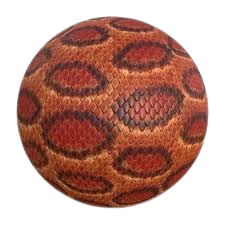
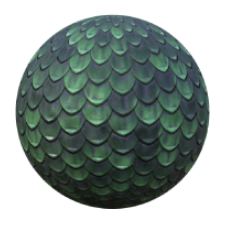
Fix Abstract DAO + Item Dragon Skin Image

diff --git a/Web/src/main/java/model/dao/factory/DAOFactory.java b/Web/src/main/java/model/dao/factory/DAOFactory.java
@@ -1,88 +1,19 @@
 package model.dao.factory;
 
-import java.io.IOException;
-import java.io.InputStream;
-import java.sql.Connection;
-import java.sql.DriverManager;
-import java.sql.SQLException;
-import java.util.Properties;
+import javax.servlet.ServletContext;
 
 import model.dao.interfaces.ItemDAO;
 import model.dao.interfaces.JoueurDao;
-import model.dao.exceptions.DAOConfigurationException;
-import model.dao.implementations.ItemDaoImpl;
-import model.dao.implementations.JoueurDaoImpl;
 
-public class DAOFactory {
-
-    private static final String FICHIER_PROPERTIES       = "dao.properties";
-    private static final String PROPERTY_URL             = "url";
-    private static final String PROPERTY_DRIVER          = "driver";
-    private static final String PROPERTY_NOM_UTILISATEUR = "nomutilisateur";
-    private static final String PROPERTY_MOT_DE_PASSE    = "motdepasse";
-
-    public String              url;
-    public String              username;
-    public String              password;
-
-    DAOFactory( String url, String username, String password ) {
-        this.url = url;
-        this.username = username;
-        this.password = password;
-    }
-
-    /*
-     * Méthode chargée de récupérer les informations de connexion à la base de
-     * données, charger le driver JDBC et retourner une instance de la Factory
-     */
-    public static DAOFactory getInstance() throws DAOConfigurationException {
-        Properties properties = new Properties();
-        String url;
-        String driver;
-        String nomUtilisateur;
-        String motDePasse;
-
-        ClassLoader classLoader = Thread.currentThread().getContextClassLoader();
-        InputStream fichierProperties = classLoader.getResourceAsStream( FICHIER_PROPERTIES );
-
-        if ( fichierProperties == null ) {
-            throw new DAOConfigurationException( "Le fichier properties " + FICHIER_PROPERTIES + " est introuvable." );
-        }
-
-        try {
-            properties.load( fichierProperties );
-            url = properties.getProperty( PROPERTY_URL );
-            driver = properties.getProperty( PROPERTY_DRIVER );
-            nomUtilisateur = properties.getProperty( PROPERTY_NOM_UTILISATEUR );
-            motDePasse = properties.getProperty( PROPERTY_MOT_DE_PASSE );
-        } catch ( IOException e ) {
-            throw new DAOConfigurationException( "Impossible de charger le fichier properties " + FICHIER_PROPERTIES, e );
-        }
-
-        try {
-            Class.forName( driver );
-        } catch ( ClassNotFoundException e ) {
-            throw new DAOConfigurationException( "Le driver est introuvable dans le classpath.", e );
-        }
-
-        DAOFactory instance = new DAOFactory( url, nomUtilisateur, motDePasse );
-        return instance;
-    }
-
-    /* Méthode chargée de fournir une connexion à la base de données */
-    public Connection getConnection() throws SQLException {
-        return DriverManager.getConnection( url, username, password );
-    }
-
-    /*
-     * Méthodes de récupération de l'implémentation des différents DAO (un seul
-     * pour le moment)
-     */
-    public JoueurDao getJoueurDao() {
-        return new JoueurDaoImpl( this );
-    }
+public interface DAOFactory {
+	
+	public final String ATT_DAO_FACTORY = "daofactory";
+	
+	public JoueurDao getJoueurDao();
     
-    public ItemDAO getItemDAO() {
-        return new ItemDaoImpl( this );
-    }
+    public ItemDAO getItemDAO();
+	
+    public static DAOFactory getInstanceFromContext( ServletContext servletContext ) {
+    	return (DAOFactory) servletContext.getAttribute(ATT_DAO_FACTORY);
+	}
 }

diff --git a/Web/src/main/java/model/dao/factory/DAOFactoryImpl.java b/Web/src/main/java/model/dao/factory/DAOFactoryImpl.java
@@ -1,0 +1,88 @@
+package model.dao.factory;
+
+import java.io.IOException;
+import java.io.InputStream;
+import java.sql.Connection;
+import java.sql.DriverManager;
+import java.sql.SQLException;
+import java.util.Properties;
+
+import model.dao.interfaces.ItemDAO;
+import model.dao.interfaces.JoueurDao;
+import model.dao.exceptions.DAOConfigurationException;
+import model.dao.implementations.ItemDaoImpl;
+import model.dao.implementations.JoueurDaoImpl;
+
+public class DAOFactoryImpl implements DAOFactory{
+
+    private static final String FICHIER_PROPERTIES       = "dao.properties";
+    private static final String PROPERTY_URL             = "url";
+    private static final String PROPERTY_DRIVER          = "driver";
+    private static final String PROPERTY_NOM_UTILISATEUR = "nomutilisateur";
+    private static final String PROPERTY_MOT_DE_PASSE    = "motdepasse";
+
+    public String              url;
+    public String              username;
+    public String              password;
+
+    DAOFactoryImpl( String url, String username, String password ) {
+        this.url = url;
+        this.username = username;
+        this.password = password;
+    }
+
+    /*
+     * Méthode chargée de récupérer les informations de connexion à la base de
+     * données, charger le driver JDBC et retourner une instance de la Factory
+     */
+    public static DAOFactory getInstance() throws DAOConfigurationException {
+        Properties properties = new Properties();
+        String url;
+        String driver;
+        String nomUtilisateur;
+        String motDePasse;
+
+        ClassLoader classLoader = Thread.currentThread().getContextClassLoader();
+        InputStream fichierProperties = classLoader.getResourceAsStream( FICHIER_PROPERTIES );
+
+        if ( fichierProperties == null ) {
+            throw new DAOConfigurationException( "Le fichier properties " + FICHIER_PROPERTIES + " est introuvable." );
+        }
+
+        try {
+            properties.load( fichierProperties );
+            url = properties.getProperty( PROPERTY_URL );
+            driver = properties.getProperty( PROPERTY_DRIVER );
+            nomUtilisateur = properties.getProperty( PROPERTY_NOM_UTILISATEUR );
+            motDePasse = properties.getProperty( PROPERTY_MOT_DE_PASSE );
+        } catch ( IOException e ) {
+            throw new DAOConfigurationException( "Impossible de charger le fichier properties " + FICHIER_PROPERTIES, e );
+        }
+
+        try {
+            Class.forName( driver );
+        } catch ( ClassNotFoundException e ) {
+            throw new DAOConfigurationException( "Le driver est introuvable dans le classpath.", e );
+        }
+
+        DAOFactoryImpl instance = new DAOFactoryImpl( url, nomUtilisateur, motDePasse );
+        return instance;
+    }
+
+    /* Méthode chargée de fournir une connexion à la base de données */
+    public Connection getConnection() throws SQLException {
+        return DriverManager.getConnection( url, username, password );
+    }
+
+    /*
+     * Méthodes de récupération de l'implémentation des différents DAO (un seul
+     * pour le moment)
+     */
+    public JoueurDao getJoueurDao() {
+        return new JoueurDaoImpl( this );
+    }
+    
+    public ItemDAO getItemDAO() {
+        return new ItemDaoImpl( this );
+    }
+}

diff --git a/Web/src/main/java/model/dao/implementations/JoueurDaoImpl.java b/Web/src/main/java/model/dao/implementations/JoueurDaoImpl.java
@@ -11,12 +11,12 @@ import java.util.List;
 import model.beans.Joueur;
 import model.dao.interfaces.JoueurDao;
 import model.dao.exceptions.DAOException;
-import model.dao.factory.DAOFactory;
+import model.dao.factory.DAOFactoryImpl;
 import model.dao.utils.DAOUtilitaire;
 
 public class JoueurDaoImpl implements JoueurDao {
 	
-	private DAOFactory daoFactory;
+	private DAOFactoryImpl daoFactory;
 	
 	private static final String SQL_SELECT_PAR_ID = "SELECT id, username, mot_de_passe, email, nb_pieces, skins, score, date_inscription FROM joueurs WHERE id = ?";
 	private static final String SQL_SELECT_PAR_USERNAME = "SELECT id, username, mot_de_passe, email, nb_pieces, skins, score, date_inscription FROM joueurs WHERE BINARY username = ?";
@@ -26,7 +26,7 @@ public class JoueurDaoImpl implements JoueurDao {
 	private static final String SQL_SELECT_CLASSEMENT_PAR_SCORE = "SELECT username, score FROM joueurs ORDER BY score DESC LIMIT ?";
 	private static final String SQL_SELECT_JOUEURS_BY_USERNAMES = "SELECT id, username, mot_de_passe, email, nb_pieces, skins, score, date_inscription FROM joueurs WHERE BINARY username IN (?)";
 	
-    public JoueurDaoImpl( DAOFactory daoFactory ) {
+    public JoueurDaoImpl( DAOFactoryImpl daoFactory ) {
         this.daoFactory = daoFactory;
     }
     

diff --git a/Web/src/main/java/model/dao/implementations/ItemDaoImpl.java b/Web/src/main/java/model/dao/implementations/ItemDaoImpl.java
@@ -10,19 +10,19 @@ import java.util.List;
 
 import model.beans.Item;
 import model.dao.exceptions.DAOException;
-import model.dao.factory.DAOFactory;
+import model.dao.factory.DAOFactoryImpl;
 import model.dao.interfaces.ItemDAO;
 import model.dao.utils.DAOUtilitaire;
 
 public class ItemDaoImpl implements ItemDAO{
-	private DAOFactory daoFactory;
+	private DAOFactoryImpl daoFactory;
 	
 	private static final String SQL_SELECT_ITEMS = "SELECT id, title, description, price, image FROM items";
 	private static final String SQL_SELECT_ITEMS_BY_ID = "SELECT id, title, description, price, image FROM items WHERE id IN (?)";
 	private static final String SQL_SELECT_ITEM_BY_ID = "SELECT id, title, description, price, image FROM items WHERE id = ?";
 
 	
-    public ItemDaoImpl( DAOFactory daoFactory ) {
+    public ItemDaoImpl( DAOFactoryImpl daoFactory ) {
         this.daoFactory = daoFactory;
     }
     

diff --git a/Web/src/main/java/model/dao/utils/InitialisationDaoFactory.java b/Web/src/main/java/model/dao/utils/InitialisationDaoFactory.java
@@ -6,6 +6,7 @@ import javax.servlet.ServletContextListener;
 import javax.servlet.annotation.WebListener;
 
 import model.dao.factory.DAOFactory;
+import model.dao.factory.DAOFactoryImpl;
 
 @WebListener
 public class InitialisationDaoFactory implements ServletContextListener {
@@ -19,7 +20,7 @@ public class InitialisationDaoFactory implements ServletContextListener {
         /* Récupération du ServletContext lors du chargement de l'application */
         ServletContext servletContext = event.getServletContext();
         /* Instanciation de notre DAOFactory */
-        this.daoFactory = DAOFactory.getInstance();
+        this.daoFactory = DAOFactoryImpl.getInstance();
         /* Enregistrement dans un attribut ayant pour portée toute l'application */
         servletContext.setAttribute( ATT_DAO_FACTORY, this.daoFactory );
     }

diff --git a/Web/src/main/java/servlets/api/ServletAcheterItem.java b/Web/src/main/java/servlets/api/ServletAcheterItem.java
@@ -27,7 +27,8 @@ public class ServletAcheterItem extends HttpServlet {
 	private ItemDAO itemDao;
     
     public void init() throws ServletException{
-    	DAOFactory daoFactory = DAOFactory.getInstance();
+    	// Récupère la DAOFactory depuis le servletContext
+    	DAOFactory daoFactory = DAOFactory.getInstanceFromContext( this.getServletContext() );
     	this.joueurDAO = daoFactory.getJoueurDao();
     	this.itemDao = daoFactory.getItemDAO();
 	}

diff --git a/Web/src/main/java/servlets/pages/ServletBoutique.java b/Web/src/main/java/servlets/pages/ServletBoutique.java
@@ -37,7 +37,8 @@ public class ServletBoutique extends HttpServlet {
 	private ItemDAO itemDAO;
     
     public void init() throws ServletException{
-    	DAOFactory daoFactory = DAOFactory.getInstance();
+    	// Récupère la DAOFactory depuis le servletContext
+    	DAOFactory daoFactory = DAOFactory.getInstanceFromContext( this.getServletContext() );
     	this.joueurDAO = daoFactory.getJoueurDao();
     	this.itemDAO = daoFactory.getItemDAO();
 	}

diff --git a/Web/src/main/java/servlets/pages/ServletProfil.java b/Web/src/main/java/servlets/pages/ServletProfil.java
@@ -34,7 +34,8 @@ public class ServletProfil extends HttpServlet {
 	private ItemDAO itemDao;
     
     public void init() throws ServletException{
-    	DAOFactory daoFactory = DAOFactory.getInstance();
+    	// Récupère la DAOFactory depuis le servletContext
+    	DAOFactory daoFactory = DAOFactory.getInstanceFromContext( this.getServletContext() );
     	this.joueurDAO = daoFactory.getJoueurDao();
     	this.itemDao = daoFactory.getItemDAO();
 	}

diff --git a/Web/src/main/java/servlets/api/ServletInscriptionAPI.java b/Web/src/main/java/servlets/api/ServletInscriptionAPI.java
@@ -30,7 +30,8 @@ public class ServletInscriptionAPI extends HttpServlet {
     private JoueurDao joueurDAO;
     
     public void init() throws ServletException{
-    	DAOFactory daoFactory = DAOFactory.getInstance();
+    	// Récupère la DAOFactory depuis le servletContext
+    	DAOFactory daoFactory = DAOFactory.getInstanceFromContext( this.getServletContext() );
     	this.joueurDAO = daoFactory.getJoueurDao();
 	}
 

diff --git a/Web/src/main/java/servlets/api/ServletConnexionAPI.java b/Web/src/main/java/servlets/api/ServletConnexionAPI.java
@@ -30,7 +30,8 @@ public class ServletConnexionAPI extends HttpServlet {
     private JoueurDao joueurDAO;
     
     public void init() throws ServletException{
-    	DAOFactory daoFactory = DAOFactory.getInstance();
+    	// Récupère la DAOFactory depuis le servletContext
+    	DAOFactory daoFactory = DAOFactory.getInstanceFromContext( this.getServletContext() );
     	this.joueurDAO = daoFactory.getJoueurDao();
 	}
 

diff --git a/Web/src/main/java/servlets/api/ServletInfoProfilAPI.java b/Web/src/main/java/servlets/api/ServletInfoProfilAPI.java
@@ -26,7 +26,8 @@ public class ServletInfoProfilAPI extends HttpServlet {
 	private JoueurDao joueurDAO;
     
     public void init() throws ServletException{
-    	DAOFactory daoFactory = DAOFactory.getInstance();
+    	// Récupère la DAOFactory depuis le servletContext
+    	DAOFactory daoFactory = DAOFactory.getInstanceFromContext( this.getServletContext() );
     	this.joueurDAO = daoFactory.getJoueurDao();
 	}
 

diff --git a/Web/src/main/java/servlets/pages/ServletConnexion.java b/Web/src/main/java/servlets/pages/ServletConnexion.java
@@ -31,7 +31,8 @@ public class ServletConnexion extends HttpServlet {
     private JoueurDao joueurDAO;
     
     public void init() throws ServletException{
-    	DAOFactory daoFactory = DAOFactory.getInstance();
+    	// Récupère la DAOFactory depuis le servletContext
+    	DAOFactory daoFactory = DAOFactory.getInstanceFromContext( this.getServletContext() );
     	this.joueurDAO = daoFactory.getJoueurDao();
 	}
 
